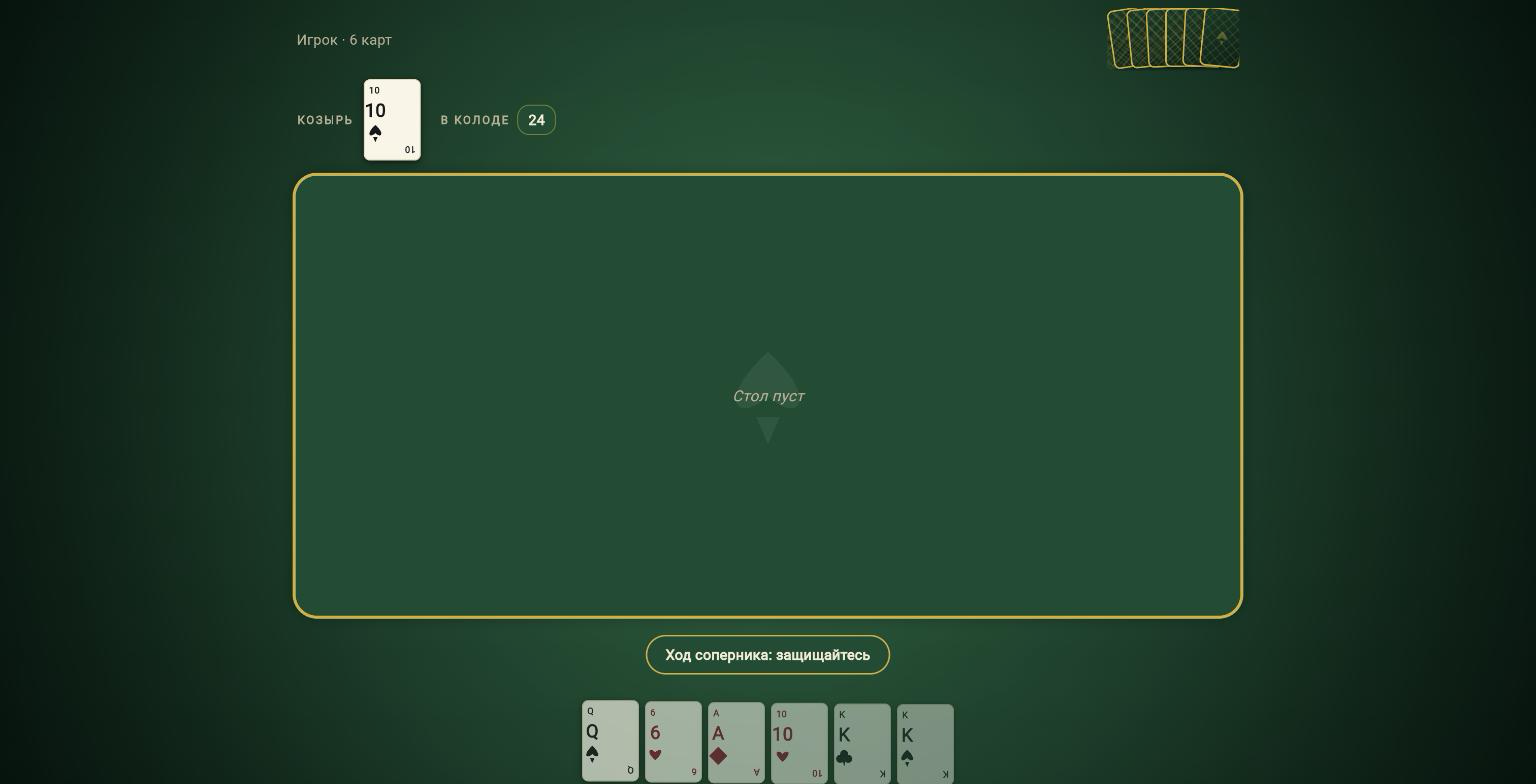
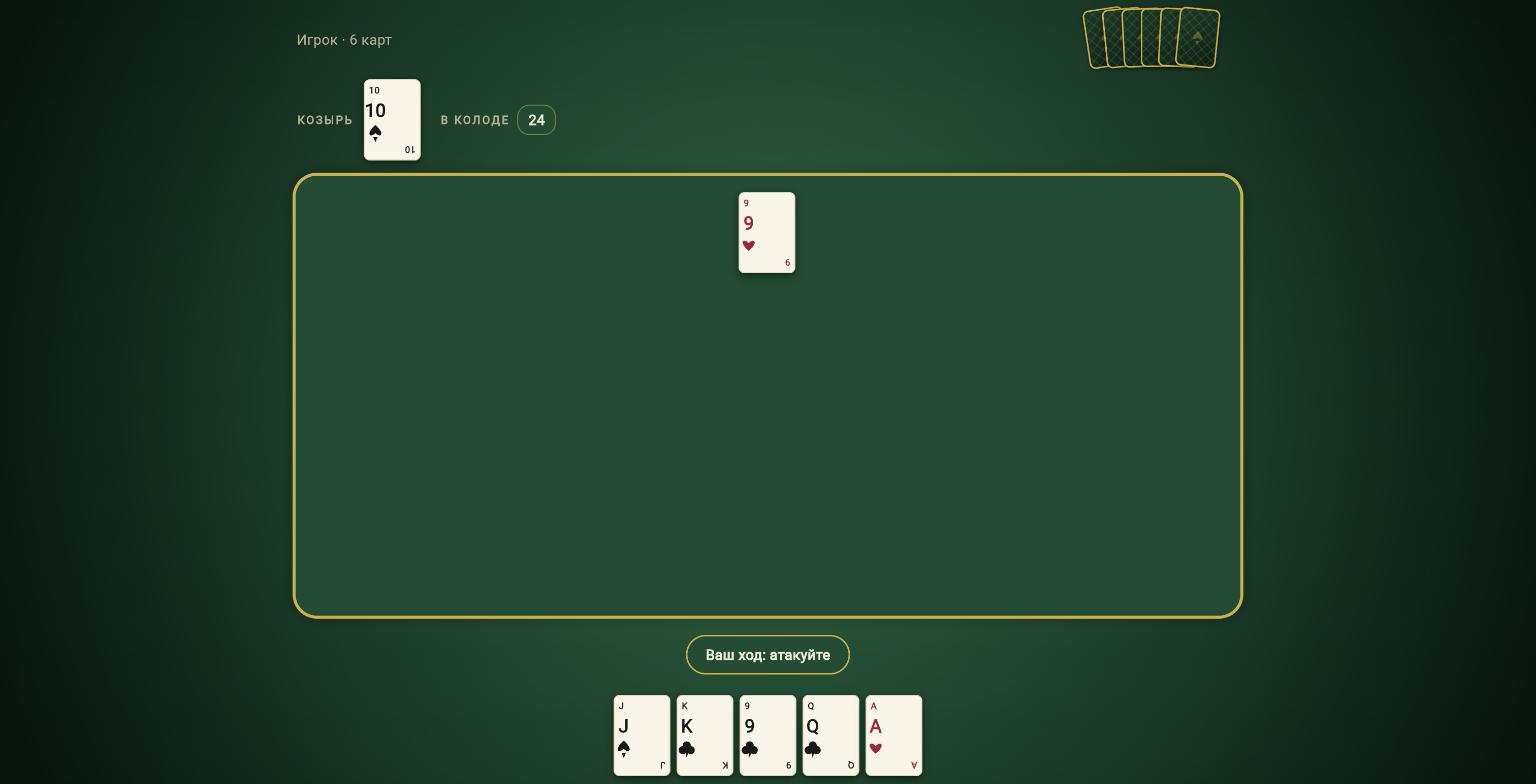
Update README screenshots and add production link
Screenshots now reflect the current Emerald Rail UI (rounded gold
buttons, redesigned table/cards) instead of the pre-redesign look.
Added a direct link to the live Vercel deployment so anyone can play
in the browser without cloning/building anything.

diff --git a/README.md b/README.md
@@ -4,6 +4,10 @@
 
 Сделано как демонстрация подхода к разработке сложных игровых сервисов: чистая доменная логика без зависимостей от фреймворков, тонкие адаптеры к транспорту (REST/WebSocket), и клиент, который ничего не знает о деталях сети.
 
+## Играть
+
+**[durak-game-ruby.vercel.app](https://durak-game-ruby.vercel.app)** — рабочая версия, деплой автоматически обновляется при пуше в `main`. Откройте ссылку в двух вкладках (или отправьте код комнаты второму игроку) и играйте прямо в браузере, установка не требуется.
+
 ## Скриншоты
 
 ![Лобби / главное меню](docs/screenshots/lobby.png)
